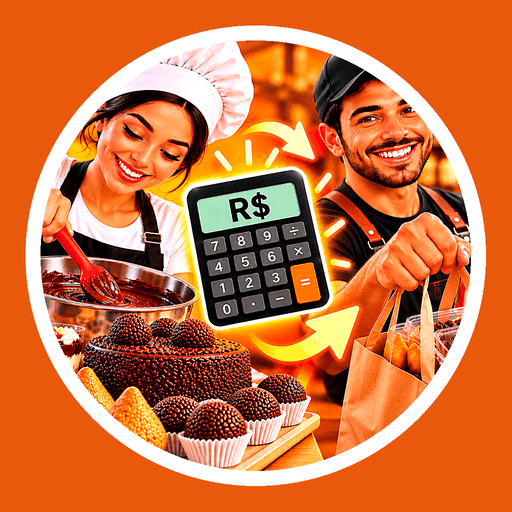
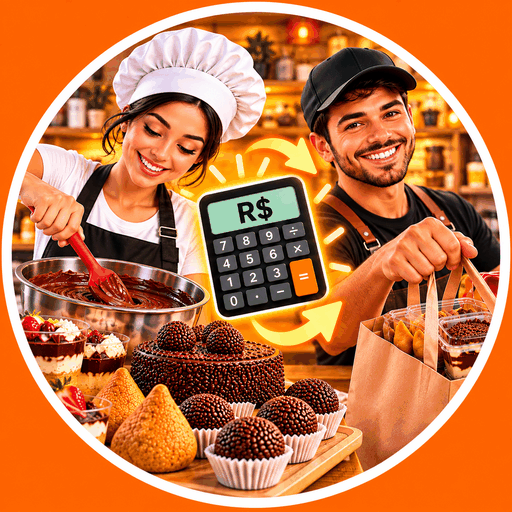
feat(calculadora): ícone com a arte nova (fundo laranja e borda branca)
Claude-Session: https://claude.ai/code/session_01UfbvQyVUMZpEq6zNbbPKYT

diff --git a/calculadora/public/sw.js b/calculadora/public/sw.js
@@ -1,5 +1,5 @@
 // Guarda as telas do app para funcionar sem internet. A API nunca é guardada aqui.
-const VERSAO = 'calc-v10';
+const VERSAO = 'calc-v11';
 const ARQUIVOS = ['/app/', '/app/app.js', '/app/app.css', '/app/calculo.js', '/img/logo.webp', '/img/icone-192.png', '/manifest.webmanifest'];
 
 self.addEventListener('install', (e) => {

diff --git a/calculadora/public/app/app.js b/calculadora/public/app/app.js
@@ -1,7 +1,7 @@
 import { calcularReceita, CHAMAS, UNIDADES, normalizar } from './calculo.js';
 
 const LINK_COMPRA = '/comprar';
-const VERSAO_APP = '1.8';
+const VERSAO_APP = '1.9';
 const tela = document.getElementById('tela');
 const abas = document.getElementById('abas');
 
